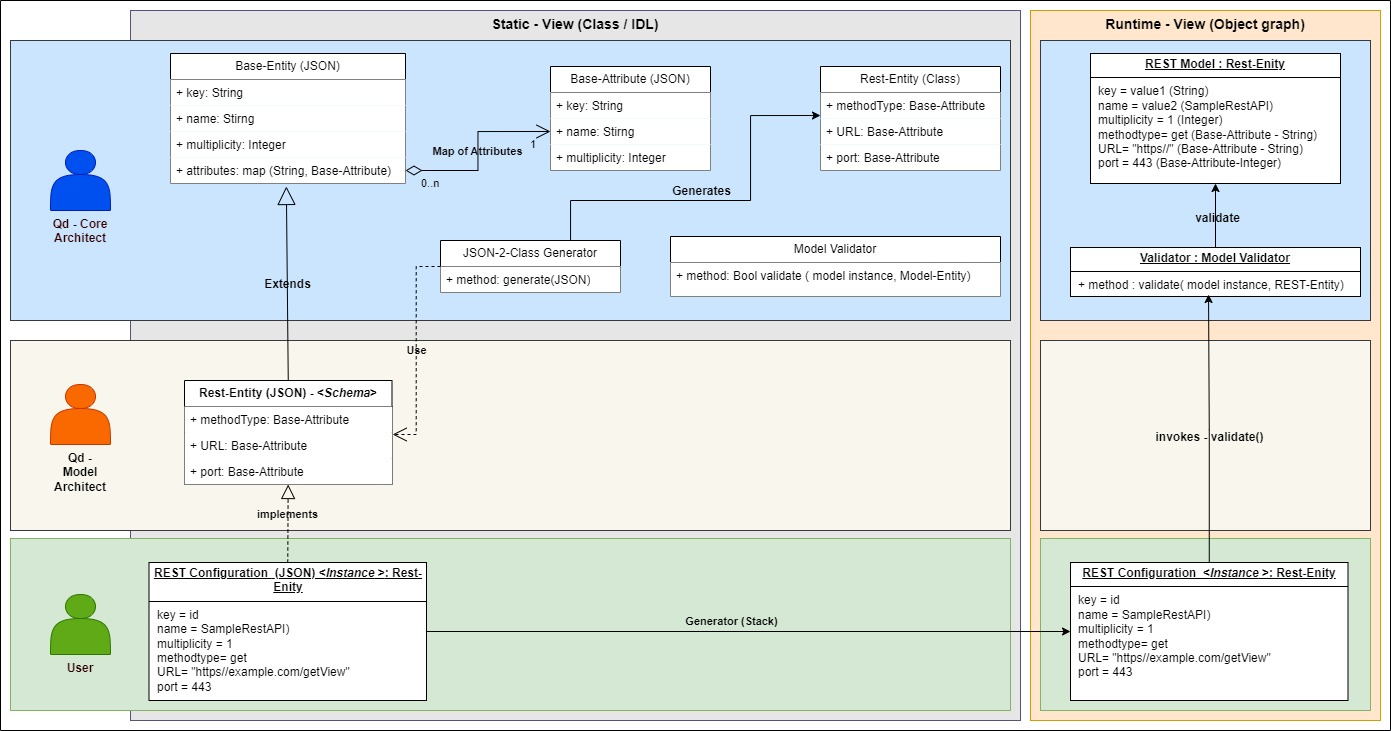
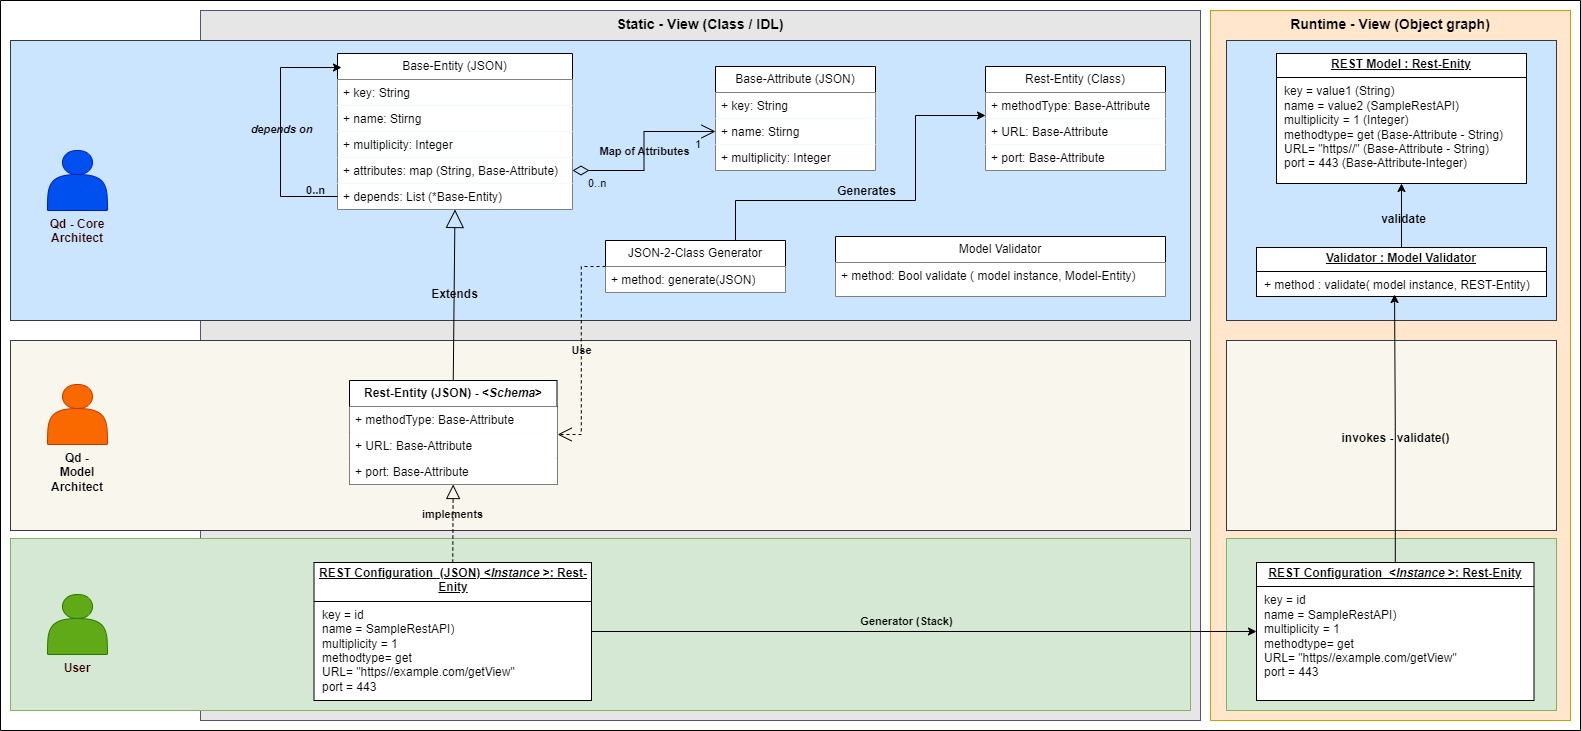
Updated HLD and codebase

diff --git a/Rust-Franca-POC/codebase/rest-dm/src/main.rs b/Rust-Franca-POC/codebase/rest-dm/src/main.rs
@@ -1,0 +1,44 @@
+use std::collections::HashMap;
+
+#[derive(Debug)]
+struct BaseEntity {
+    key: String,
+    name: String,
+    multiplicity: u16,
+    attributes: HashMap<String, BaseAttribute>,
+}
+
+impl BaseEntity {
+
+    fn new(key: String, name: String, multiplicity: u16, attribute: HashMap<String, BaseAttribute>) -> BaseEntity{
+        if self.attributes == None {
+            self.attributes = HashMap::new()
+        }
+        self.attributes.insert(key , attribute);
+        BaseEntity {key: key, name : name, multiplicity : multiplicity, attributes: todo!() }
+    }
+
+    fn add_attribute(&mut self, attribute: HashMap<String, BaseAttribute>){
+        // self.attributes.in
+    }
+}
+
+#[derive(Debug)]
+struct BaseAttribute {
+    key: String,
+    name: String,
+    multiplicity: u16,
+}
+
+impl BaseAttribute {
+    
+}
+
+fn main() {
+    let base_entity = BaseEntity = {
+
+    }
+
+
+    println!("Hello, world!");
+}
